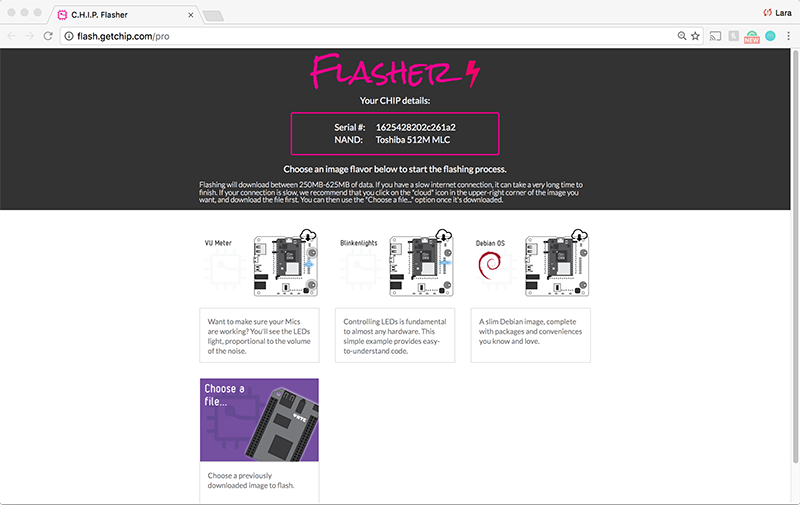
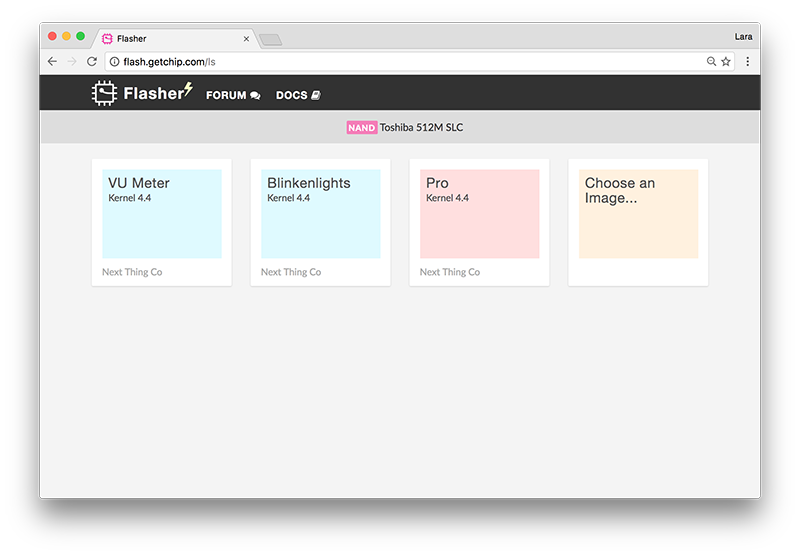
new web flasher images

diff --git a/CHIP_Pro-Docs/source/includes/_connectcontrolpro.md b/CHIP_Pro-Docs/source/includes/_connectcontrolpro.md
@@ -29,17 +29,21 @@ Plug the micro USB cable into the micro USB port on C.H.I.P. Pro. Hold down the 
 
 ![pushing FELL button](images/hold_plugPro800.gif)
 
-The web flasher will search for and recognize the C.H.I.P. Pro. 
+The web flasher will search for and recognize the C.H.I.P. Pro.
 
-![searching for board](images/searchPageCrop.png)
+![image page](images/searchFlash.png) 
 
-A page with example images will appear. Click each image to see more details such as file size. When you have chosen your adventure, **Flash to C.H.I.P. Pro**.
+Then, the page with example images will appear. Hover over each image to see a description and click to see more details such as file size. When you have chosen your adventure, **Flash to C.H.I.P. Pro**.
 
 ![image page](images/imagePage.png)
 
+As the flashing progresses leave the browser tab open. You will be notified as soon as it finishes. You are then free to unplug the C.H.I.P. Pro or connect to it via [serial](https://docs.getchip.com/chip_pro.html#usb-serial-uart1-connection).
+
+![image page](images/flashFinish.png)
+
 
 ## Examples
-You can select an OS by flashing one of our examples using the web flasher [flash.getchip.com/pro](http://flash.getchip.com) in Chrome or Chromium browser. Before you go to the web flasher however, there is a method to flashing C.H.I.P. Pro to know and get in the habit of. This process is explained [above](http://ntc-docs-unstable.surge.sh/chip_pro.html#flashing-process) and is also illustrated on the flasher page.
+You can select an OS by flashing one of our examples using the web flasher [flash.getchip.com/pro](http://flash.getchip.com) in Chrome or Chromium browser. Before you go to the web flasher however, there is a method to flashing C.H.I.P. Pro to know and get in the habit of. This process is explained [above](http://docs.getchip.com/chip_pro.html#flashing-process) and is also illustrated on the flasher page.
 
 We have built examples based on Buildroot that implement features exposed on the CHIP Pro [Dev Board](https://docs.getchip.com/chip_pro_devkit.html) such as its two MICs, and array of GPIOs. If you are building a circuit that incorporates mics and LEDs with a bare C.H.I.P. Pro you can start with these examples. 
 
